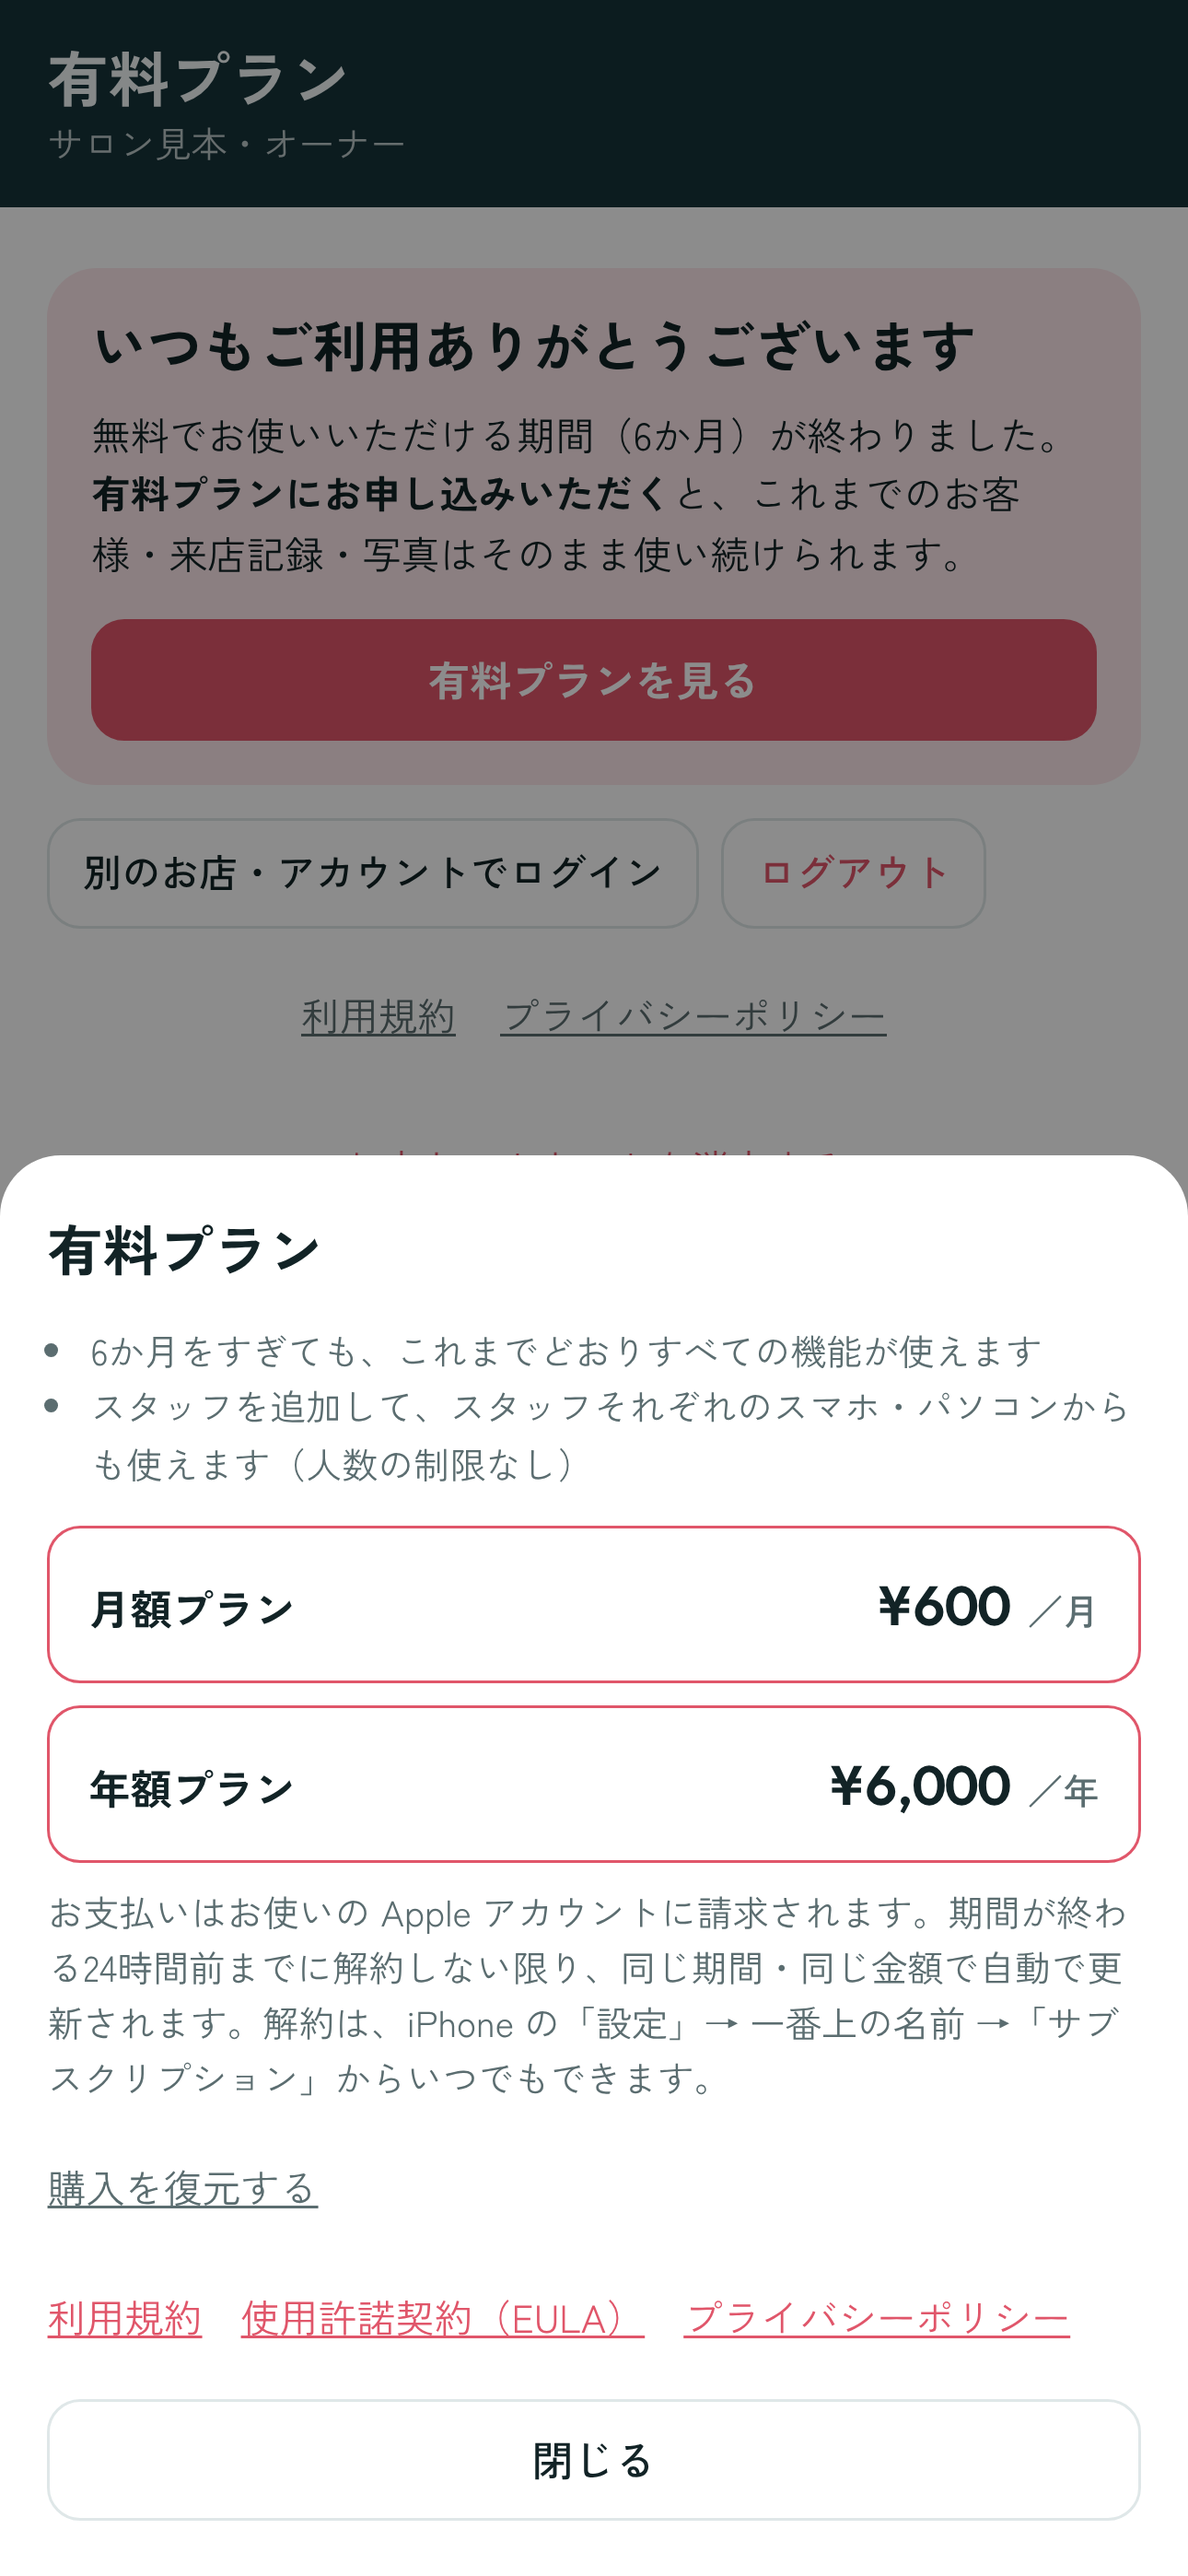
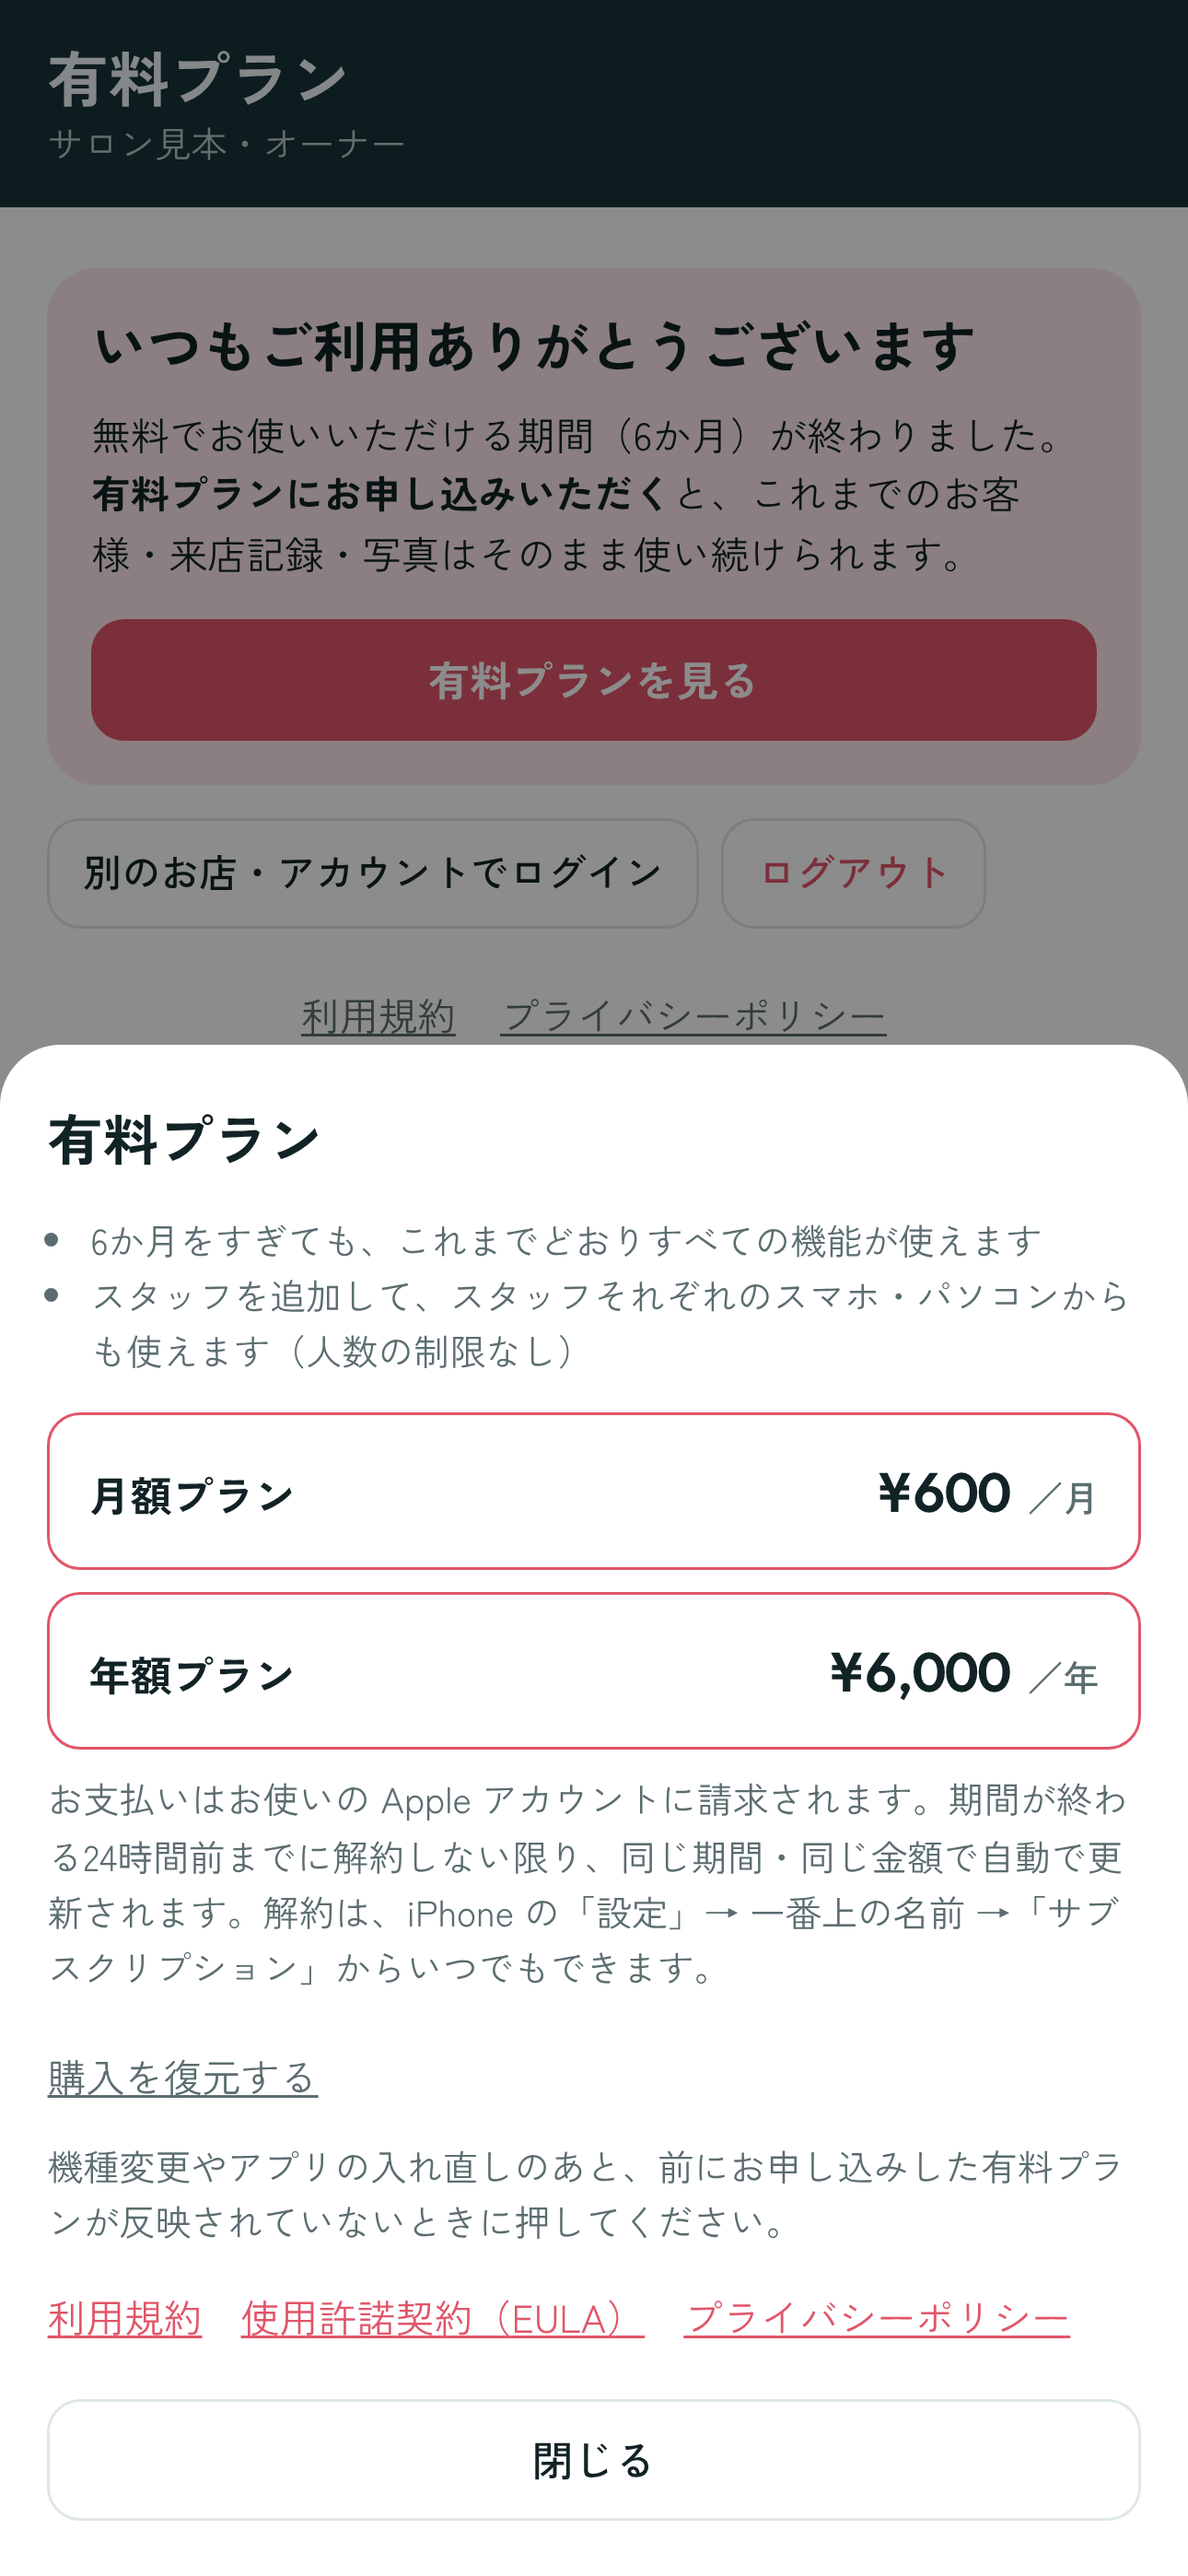
有料プラン：準備で止まる不具合を直す（課金の部品を async 関数から返すと then に反応して永久に待つため）。テストの偽物の部品も本物と同じ作りにする
Claude-Session: https://claude.ai/code/session_019BjkunYiW2sDXG4pbYNpod

diff --git a/index.html b/index.html
@@ -1148,14 +1148,17 @@ async function syncPlan() {
   return r;
 }
 // RevenueCat の部品を、このお店のIDで使えるようにする（iPhone アプリだけ）
+// ※ 部品（window.RCPurchases）そのものを async 関数から返したり await したりしないこと。
+//    部品はどんな名前（then も）にも反応するので、「終わっていない作業」と思われて永久に待ってしまう。
+//    ここでは使えるかどうか（true/false）だけを返し、部品は window.RCPurchases から直接使う。
 async function rc() {
   const P = window.RCPurchases;
-  if (!P || !PAY.iosKey || window.Capacitor?.getPlatform?.() !== 'ios') return null;
+  if (!P || !PAY.iosKey || window.Capacitor?.getPlatform?.() !== 'ios') return false;
   // 準備（configure）は1回だけ。途中で時間切れになっても、もう一度呼ぶと同じ準備の終わりを待つ
   if (!rcReady) { const id = S.salon.id; rcReady = P.configure({ apiKey: PAY.iosKey, appUserID: id }).then(() => { rcUser = id }).catch(e => { rcReady = null; throw e }) }
   await rcReady;
   if (rcUser !== S.salon.id) { await P.logIn({ appUserID: S.salon.id }); rcUser = S.salon.id }
-  return P;
+  return true;
 }
 const PLAN_FEATURES = `<ul class="hint" style="padding-left:1.2em;margin:6px 0 12px">
   <li>${TRIAL_MONTHS}か月をすぎても、これまでどおりすべての機能が使えます</li>
@@ -1205,8 +1208,8 @@ async function planForm(why) {
     const loadPkgs = async () => {
     box.innerHTML = '<p class="hint">読み込んでいます…（30秒ほどかかることがあります）</p>';
     try {
-      step = '準備'; const P = await withTimeout(rc(), PAY.timeoutMs);
-      if (!P) { box.innerHTML = '<p class="hint">お申し込みの準備中です。もうしばらくお待ちください。</p>'; return }
+      step = '準備'; const ok = await withTimeout(rc(), PAY.timeoutMs); const P = window.RCPurchases;
+      if (!ok) { box.innerHTML = '<p class="hint">お申し込みの準備中です。もうしばらくお待ちください。</p>'; return }
       step = '値段の読み込み'; const pkgs = (await withTimeout(P.getOfferings(), PAY.timeoutMs))?.current?.availablePackages || [];
       if (!pkgs.length) throw new Error('no packages');
       const label = k => ({ MONTHLY: ['月額プラン', '月'], ANNUAL: ['年額プラン', '年'] })[k.packageType] || [k.product.title, ''];
@@ -1235,7 +1238,7 @@ async function planForm(why) {
   }
   if ($('#plRestore')) $('#plRestore').onclick = async () => {
     if (busy) return; busy = true;
-    try { const P = await withTimeout(rc(), PAY.timeoutMs); if (!P) throw 0; await withTimeout(P.restorePurchases(), PAY.timeoutMs * 2); await syncPlan(); if (paid()) await done(); else toast('復元できるお申し込みが見つかりませんでした') }
+    try { if (!(await withTimeout(rc(), PAY.timeoutMs))) throw 0; const P = window.RCPurchases; await withTimeout(P.restorePurchases(), PAY.timeoutMs * 2); await syncPlan(); if (paid()) await done(); else toast('復元できるお申し込みが見つかりませんでした') }
     catch (e) { toast('復元できませんでした。もう一度お試しください') }
     finally { busy = false }
   };

diff --git a/test/plan.py b/test/plan.py
@@ -30,11 +30,11 @@ def setup(p, pre='', sync=None):
 EXPIRED = "window.__salonCreated=(()=>{const d=new Date();d.setMonth(d.getMonth()-7);return d.toISOString()})();"
 SOON = "window.__salonCreated=(()=>{const d=new Date();d.setMonth(d.getMonth()-6);d.setDate(d.getDate()+20);return d.toISOString()})();"
 NATIVE = """window.Capacitor={isNativePlatform:()=>true,getPlatform:()=>'ios'};window.__pay={iosKey:'appl_test'};
-window.__rc=[];window.RCPurchases={
+window.__rc=[];window.RCPurchases=(o=>new Proxy(o,{get:(t,k)=>k in t?t[k]:(()=>Promise.reject(new Error(String(k)+" is not implemented")))}))({
  configure:async o=>{__rc.push(['configure',o.appUserID])},logIn:async o=>{__rc.push(['logIn',o.appUserID])},
  getOfferings:async()=>({current:{availablePackages:[{packageType:'MONTHLY',product:{title:'月額',priceString:'¥600'}},{packageType:'ANNUAL',product:{title:'年額',priceString:'¥6,000'}}]}}),
  purchasePackage:async o=>{__rc.push(['buy',o.aPackage.packageType]);__db.salons[0].plan_until='2099-01-01T00:00:00Z';__db.salons[0].plan_store='app_store';return {}},
- restorePurchases:async()=>{__rc.push(['restore']);return {}}};"""
+ restorePurchases:async()=>{__rc.push(['restore']);return {}}});"""
 
 with sync_playwright() as p:
     # 1) Web：無料期間中・課金なし → 管理タブにプラン、スタッフ追加で有料プランの案内

diff --git a/store/make_iap_screenshot.py b/store/make_iap_screenshot.py
@@ -7,8 +7,8 @@ from playwright.sync_api import sync_playwright
 MOCK = open(os.path.join(ROOT, 'test', 'mock-supabase.js')).read()
 NATIVE = """window.Capacitor={isNativePlatform:()=>true,getPlatform:()=>'ios'};
 window.__salonCreated=(()=>{const d=new Date();d.setMonth(d.getMonth()-7);return d.toISOString()})();
-window.RCPurchases={configure:async()=>{},logIn:async()=>{},restorePurchases:async()=>({}),purchasePackage:async()=>({}),
- getOfferings:async()=>({current:{availablePackages:[{packageType:'MONTHLY',product:{title:'月額プラン',priceString:'¥600'}},{packageType:'ANNUAL',product:{title:'年額プラン',priceString:'¥6,000'}}]}})};"""
+window.RCPurchases=(o=>new Proxy(o,{get:(t,k)=>k in t?t[k]:(()=>Promise.reject(new Error(String(k)+" is not implemented")))}))({configure:async()=>{},logIn:async()=>{},restorePurchases:async()=>({}),purchasePackage:async()=>({}),
+ getOfferings:async()=>({current:{availablePackages:[{packageType:'MONTHLY',product:{title:'月額プラン',priceString:'¥600'}},{packageType:'ANNUAL',product:{title:'年額プラン',priceString:'¥6,000'}}]}})});"""
 _exe = glob.glob('/opt/pw-browsers/chromium*/chrome-linux*/chrome'); LAUNCH = dict(executable_path=_exe[0]) if _exe else {}
 with sync_playwright() as p:
     b = p.chromium.launch(**LAUNCH)
